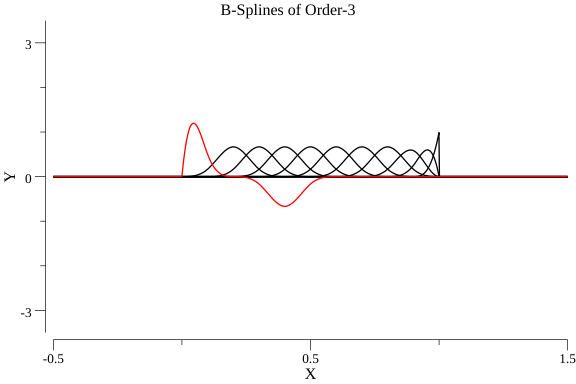
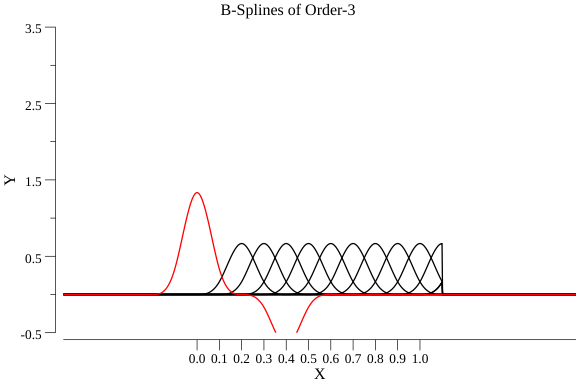
[Spline] Fix Simple Spline impl bug, fix UniformKnot bug

diff --git a/smoothspline/smoothSolver.go b/smoothspline/smoothSolver.go
@@ -8,15 +8,17 @@ import (
 )
 
 type SmoothSolver struct {
-	bSpline          bspline.BSpline
-	bRegressionMat   *mat.Dense
-	bCholeskyedLower *mat.Dense
-	bPenaltyMat      *mat.Dense
+	bSpline        bspline.BSpline
+	bRegressionMat *mat.Dense
+	bSolvedMat     *mat.Dense
+	bPenaltyMat    *mat.Dense // scale by lambda at calculation
+	lambda         float64
 }
 
-func NewSmoothSolver(spline bspline.BSpline) *SmoothSolver {
+func NewSmoothSolver(spline bspline.BSpline, lambda float64) *SmoothSolver {
 	return &SmoothSolver{
 		bSpline: spline,
+		lambda:  lambda,
 	}
 }
 
@@ -24,14 +26,58 @@ func (solver *SmoothSolver) calcRegressionMatrix() {
 	order := solver.bSpline.Order()
 	N := solver.bSpline.Knots().Count()
 
-	B := mat.NewDense(N, N+order, nil)
+	B := mat.NewDense(N, N+order+1, nil)
 	for i := 0; i < N; i++ {
+		x := solver.bSpline.Knots().At(i)
 		for j := 0; j < N+order; j++ {
-			x := solver.bSpline.Knots().At(i)
-			fmt.Println(i, x)
 			v := solver.bSpline.GetBSpline(j)(x)
 			B.Set(i, j, v)
 		}
 	}
 	solver.bRegressionMat = B
+}
+
+func (solver *SmoothSolver) RegressionMatrix() *mat.Dense {
+	if solver.bRegressionMat == nil {
+		return nil
+	}
+	regMat := mat.NewDense(solver.bRegressionMat.RawMatrix().Rows, solver.bRegressionMat.RawMatrix().Cols, nil)
+	_, _ = regMat.Copy(solver.bRegressionMat)
+	return regMat
+}
+
+func (solver *SmoothSolver) calcCholesky() {
+	regMat := solver.bRegressionMat
+	cols := regMat.RawMatrix().Cols
+	btb := mat.NewDense(cols, cols, nil)
+	btb.Mul(regMat.T(), regMat)
+	if solver.bPenaltyMat != nil {
+		btb.Add(btb, solver.bPenaltyMat)
+	}
+	btbSym := mat.NewSymDense(cols, btb.RawMatrix().Data)
+	r, c := btbSym.Dims()
+	fmt.Printf("BTB: %dx%d \n%0.2v\n", r, c, mat.Formatted(btbSym))
+
+	var chol mat.Cholesky
+	if ok := chol.Factorize(btbSym); !ok {
+		panic(">>>>>>>>>>")
+	}
+	L := mat.NewTriDense(cols, mat.Lower, nil)
+	chol.LTo(L)
+
+	L.InverseTri(L)
+	btb.Mul(L, regMat.T())
+	L.InverseTri(L)
+	btb.Mul(L, btb)
+
+	solver.bSolvedMat = btb
+}
+
+func (solver *SmoothSolver) SolverMatrix() *mat.Dense {
+	if solver.bSolvedMat == nil {
+		return nil
+	}
+	solMat := mat.NewDense(solver.bSolvedMat.RawMatrix().Rows, solver.bSolvedMat.RawMatrix().Cols, nil)
+	_, _ = solMat.Copy(solver.bSolvedMat)
+	return solMat
 }

diff --git a/smoothspline/smoothSolver_test.go b/smoothspline/smoothSolver_test.go
@@ -11,14 +11,18 @@ import (
 
 func TestSmoothSolveRegressionMatrix(t *testing.T) {
 	const order = 3
-	knots := knot.NewUniformKnot(-10, 0, 10, order)
+	knots := knot.NewUniformKnot(-10, 0, 11, order)
 	fmt.Println(knots, knots.Padding())
 
 	coef := make([]float64, knots.Count()+order)
 	simpleSpline := bspline.NewBSplineSimple(order, knots, coef)
 
-	solver := NewSmoothSolver(simpleSpline)
+	solver := NewSmoothSolver(simpleSpline, 0)
 	solver.calcRegressionMatrix()
-	fmt.Printf("B: %dx%d \n%0.2v\n", solver.bRegressionMat.RawMatrix().Rows, solver.bRegressionMat.RawMatrix().Cols, mat.Formatted(solver.bRegressionMat))
+	solved := solver.RegressionMatrix()
+	fmt.Printf("B: %dx%d \n%0.2v\n", solved.RawMatrix().Rows, solved.RawMatrix().Cols, mat.Formatted(solved))
+	solver.calcCholesky()
+	solved = solver.SolverMatrix()
+	fmt.Printf("B: %dx%d \n%0.2v\n", solved.RawMatrix().Rows, solved.RawMatrix().Cols, mat.Formatted(solved))
 
 }

diff --git a/bspline/simpleBspline.go b/bspline/simpleBspline.go
@@ -27,8 +27,8 @@ func NewBSplineSimple(order int, knot knot.Knot, coef []float64) BSpline {
 func (b *bSplineSimple) At(x float64) float64 {
 	idx := b.knots.Index(x)
 	var v float64
-	for m := -b.order; m <= b.order; m++ {
-		v += b.GetCoef(idx-m) * b.GetBSpline(idx-m)(x)
+	for m := -b.order; m <= 0; m++ {
+		v += b.GetCoef(idx+m) * b.GetBSpline(idx+m)(x)
 	}
 	return v
 }
@@ -128,7 +128,7 @@ func constructBSplines(order int, knots knot.Knot) []bFunc {
 
 	// Order 1~ : Recursive
 	for m := 1; m <= order; m++ {
-		for idx := -order; idx < knots.Count()+order; idx++ {
+		for idx := -order; idx < knots.Count()+order-m; idx++ {
 			a1, a2 := knots.At(idx), knots.At(idx+m)
 			t1, t2 := knots.At(idx+1), knots.At(idx+m+1)
 			fa := splines[idx+order]
@@ -143,5 +143,6 @@ func constructBSplines(order int, knots knot.Knot) []bFunc {
 			splines[idx+order] = fcn
 		}
 	}
+	splines = splines[:knots.Count()+order]
 	return splines
 }

diff --git a/bspline/bspline_test.go b/bspline/bspline_test.go
@@ -3,6 +3,7 @@ package bspline
 import (
 	"fmt"
 	"image/color"
+	"strconv"
 	"testing"
 
 	"github.com/helloworldpark/gonaturalspline/knot"
@@ -27,6 +28,13 @@ func TestSimpleBSpline(t *testing.T) {
 	}
 	p.Title.Text = fmt.Sprintf("B-Splines of Order-%d", order)
 	p.X.Label.Text = "X"
+	ticks := plot.ConstantTicks{}
+	for i := 0; i < knots.Count(); i++ {
+		v := knots.At(i)
+		l := strconv.FormatFloat(v, 'f', 1, 64)
+		ticks = append(ticks, plot.Tick{Value: v, Label: l})
+	}
+	p.X.Tick.Marker = ticks
 	p.Y.Label.Text = "Y"
 
 	for i := 0; i <= knots.Count(); i++ {
@@ -54,7 +62,7 @@ func TestSimpleBSpline(t *testing.T) {
 
 	p.X.Min = knots.At(-1) - 0.5
 	p.X.Max = knots.At(knots.Count()+1) + 0.5
-	p.Y.Min = -3.5
+	p.Y.Min = -0.5
 	p.Y.Max = 3.5
 
 	// Save the plot to a PNG file.

diff --git a/knot/uniformKnot.go b/knot/uniformKnot.go
@@ -19,15 +19,16 @@ func NewUniformKnot(start, end float64, count, paddings int) Knot {
 	if start >= end {
 		return nil
 	}
+	interval := (end - start) / float64(count-1)
 	var knots uniformKnot
-	for i := 0; i < paddings; i++ {
-		knots.knots = append(knots.knots, start)
+	for i := paddings; i >= 1; i-- {
+		knots.knots = append(knots.knots, start-float64(i)*interval)
 	}
 	for i := 0; i < count; i++ {
-		knots.knots = append(knots.knots, start+(end-start)*(float64(i)/float64(count-1)))
+		knots.knots = append(knots.knots, start+float64(i)*interval)
 	}
-	for i := 0; i < paddings; i++ {
-		knots.knots = append(knots.knots, end)
+	for i := 1; i <= paddings; i++ {
+		knots.knots = append(knots.knots, end+float64(i)*interval)
 	}
 	knots.padding = paddings
 	return &knots
